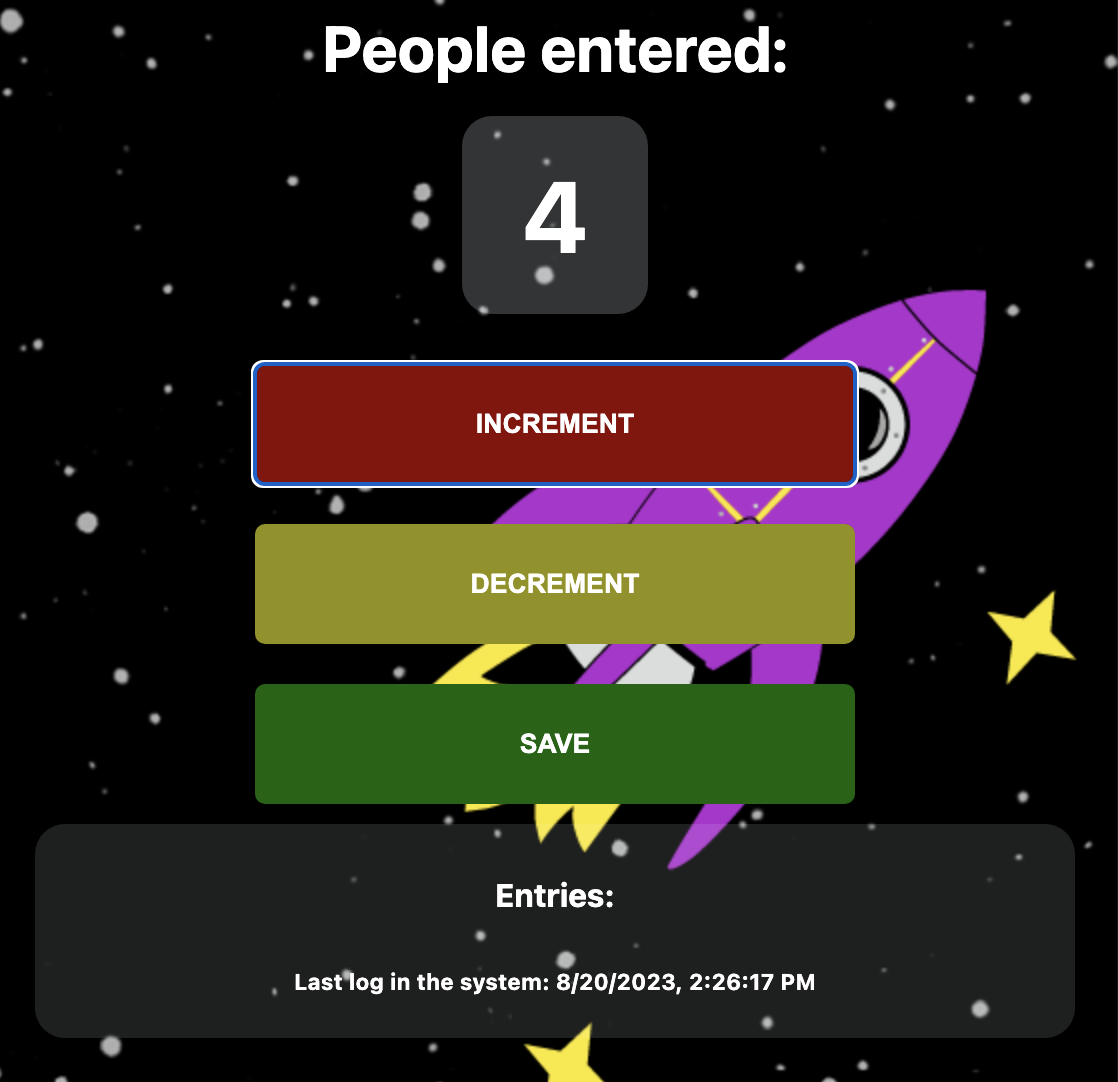
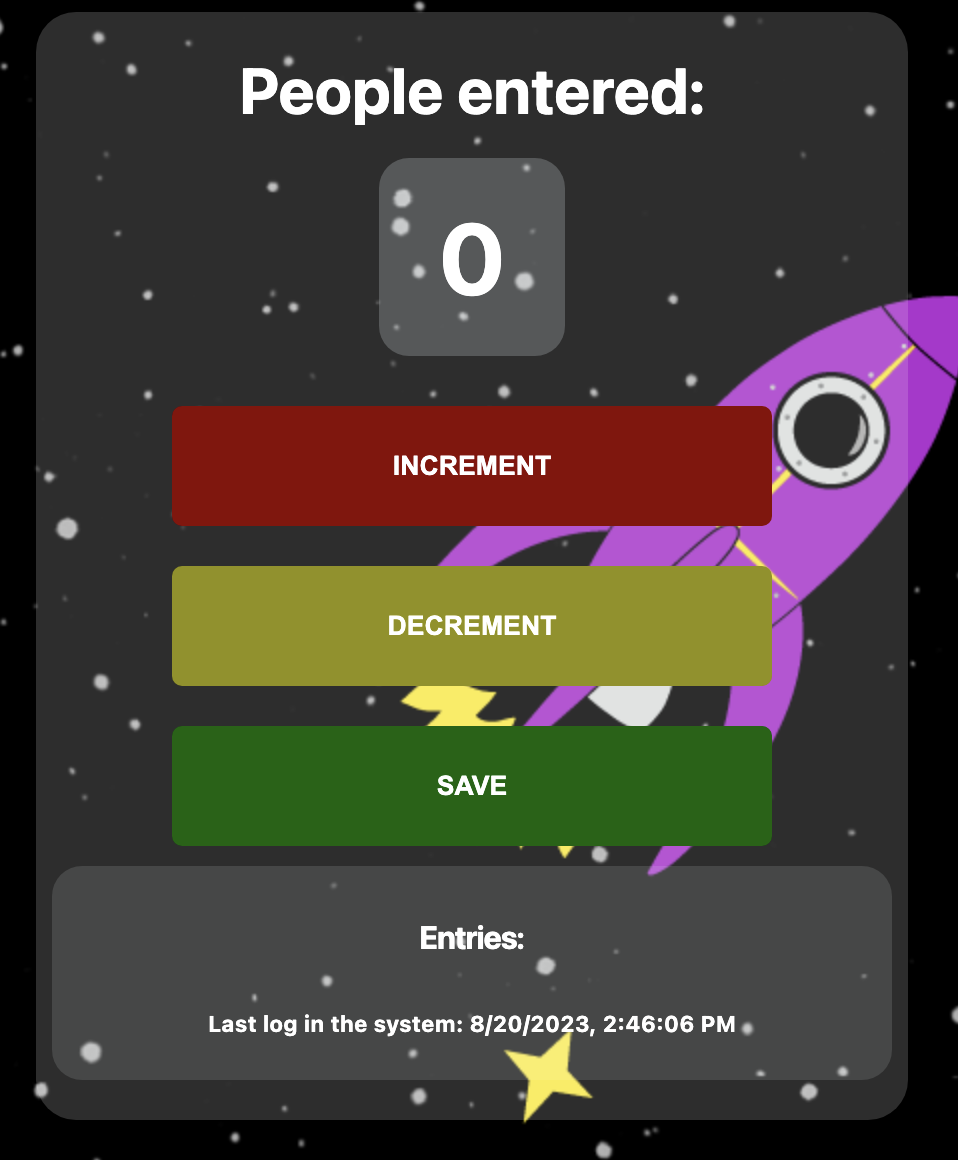
css

diff --git a/index.html b/index.html
@@ -8,20 +8,21 @@
         <link rel="icon" href="img/pp.png" type="image/x-icon">
     </head>
     <body>
-        <h1>People entered:</h1>
-        <div class="card">
-            <h2 id="count-el">0</h2>
+        <div class="container">
+            <h1>People entered:</h1>
+            <div class="card">
+                <h2 id="count-el">0</h2>
+            </div>
+            <div class="button-container">
+                <button id="increment-btn" onclick="increment()">INCREMENT</button>
+                <button id="decrement-btn" onclick="decrement()">DECREMENT</button>
+                <button id="save-btn" onclick="save()">SAVE</button>
+            </div>
+            <div class="savingCard">
+                <p id="save-el">Entries: </p>
+                <p id="date-el">DATE</p>
+            </div>
         </div>
-        <div class="button-container">
-            <button id="increment-btn" onclick="increment()">INCREMENT</button>
-            <button id="decrement-btn" onclick="decrement()">DECREMENT</button>
-            <button id="save-btn" onclick="save()">SAVE</button>
-        </div>
-        <div class="savingCard">
-            <p id="save-el">Entries: </p>
-            <p id="date-el">DATE</p>
-        </div>
-        
         <script src="index.js"></script>
     </body>
 </html>

diff --git a/index.css b/index.css
@@ -7,6 +7,15 @@ body {
     
 }
 
+.container {
+    background: rgba(255, 255, 255, 0.178);
+    max-width: 90%;
+    margin: auto;
+    border-radius: 20px;
+    padding-bottom: 10px;
+    padding-top: 10px;
+}
+
 h1 {
     margin-top: 10px;
     margin-bottom: 10px;
@@ -79,7 +88,7 @@ button:active {
     background-color: rgba(240, 248, 255, 0.121);
     padding: 10px 10px;
     border-radius: 15px;
-    max-width: 500px;
+    max-width: 400px;
     margin-left: auto;
     margin-right: auto;
     display: flex; 

diff --git a/README.md b/README.md
@@ -1,1 +1,5 @@
 # subwayCounter
+
+##workInProgress
+
+<img src='img/20.08.3-subway.png'>
